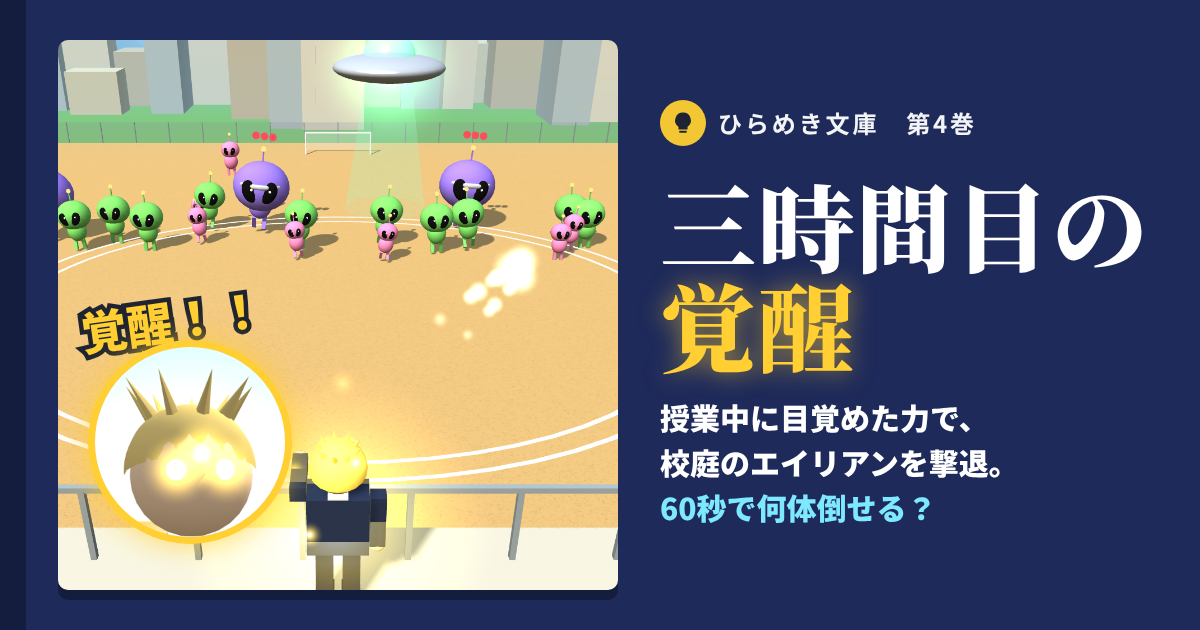
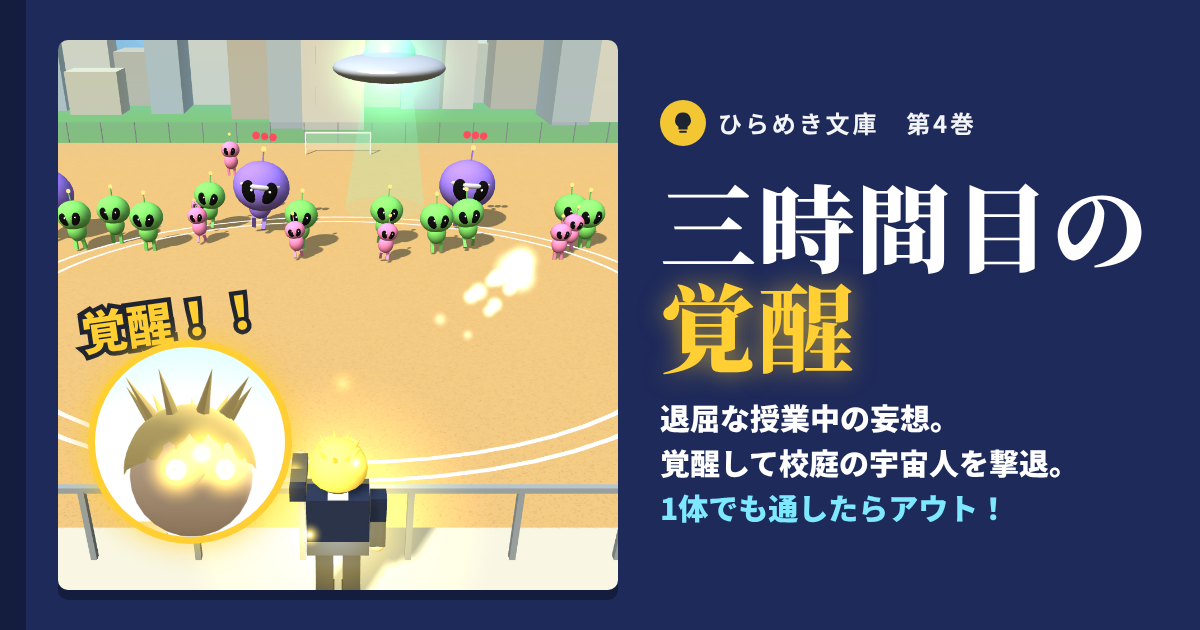
三時間目の覚醒：妄想の設定、防衛ライン、体力1に変更（確認中）
- 退屈な授業中の妄想として始まり、チャイムで現実の教室に戻る
- 画面内に防衛ライン（花壇と赤い線）。宇宙人は必ず画面内を歩く
- 1体でもラインを越えたら妄想の中で校舎崩壊→「廊下に立ってなさい」
- 先生の見た目と結末のカメラを調整、表紙の文言を更新

Claude-Session: https://claude.ai/code/session_01YTwqN5uU5B2yBdEeb5RC93

Changed region(s): [[0.555, 0.6333, 0.8942, 0.754], [0.555, 0.7841, 0.8325, 0.8444]]

diff --git a/kakusei.html b/kakusei.html
@@ -4,11 +4,11 @@
 <meta charset="utf-8">
 <meta name="viewport" content="width=device-width, initial-scale=1, viewport-fit=cover">
 <title>三時間目の覚醒｜ひらめき文庫</title>
-<meta name="description" content="授業中に覚醒した高校生が、校庭に降りてきたエイリアンを魔法で撃退。60秒で何体倒せるか。">
+<meta name="description" content="退屈な授業中、覚醒して校庭の宇宙人を魔法で撃退する妄想。1体でも通したらアウト。">
 <meta property="og:type" content="website">
 <meta property="og:site_name" content="ひらめき文庫">
 <meta property="og:title" content="三時間目の覚醒｜ひらめき文庫">
-<meta property="og:description" content="授業中に覚醒した高校生が、校庭に降りてきたエイリアンを魔法で撃退。60秒で何体倒せるか。">
+<meta property="og:description" content="退屈な授業中、覚醒して校庭の宇宙人を魔法で撃退する妄想。1体でも通したらアウト。">
 <meta property="og:url" content="https://hiramekibunko.github.io/hirameki-bunko/kakusei.html">
 <meta property="og:image" content="https://hiramekibunko.github.io/hirameki-bunko/kakusei.png">
 <meta name="twitter:card" content="summary_large_image">
@@ -42,6 +42,11 @@ body{background:var(--bg);color:var(--fg);font-family:var(--font-body);display:g
 .stage canvas{position:absolute;inset:0;width:100%;height:100%;display:block}
 .flash{position:absolute;inset:0;background:#fff;opacity:0;pointer-events:none}
 .vig{position:absolute;inset:0;pointer-events:none;opacity:0;box-shadow:inset 0 0 80px 30px rgba(255,40,60,.75)}
+.dream{position:absolute;inset:0;pointer-events:none;opacity:0;transition:opacity 1.2s;
+  box-shadow:inset 0 0 70px 26px rgba(255,200,250,.55);background:radial-gradient(ellipse at center,transparent 58%,rgba(210,180,255,.28))}
+.dream.on{opacity:1}
+.rule{justify-self:end;text-align:right;font-size:11px;font-weight:700;line-height:1.35;letter-spacing:.06em;color:#fff}
+.rule b{color:var(--danger)}
 .top{position:absolute;top:10px;left:12px;right:12px;display:grid;grid-template-columns:1fr auto 1fr;align-items:start;gap:8px;pointer-events:none;
   text-shadow:0 2px 0 rgba(0,0,0,.55);font-variant-numeric:tabular-nums}
 .top .t{font-family:var(--font-display);font-size:22px;line-height:1}
@@ -100,10 +105,12 @@ body{background:var(--bg);color:var(--fg);font-family:var(--font-body);display:g
   <div class="stage" id="stage" tabindex="0" role="application" aria-label="三時間目の覚醒。タップした場所に魔法を撃つ">
     <div class="flash" id="flash"></div>
     <div class="vig" id="vig"></div>
+    <div class="dream" id="dream"></div>
     <div class="top" id="top" hidden>
       <div class="t"><span id="time">60</span><small>残り秒</small></div>
       <div class="k"><span id="kills">0</span><small>撃退</small></div>
-      <div class="hp"><small>校舎の無事度 <b id="hpn">100</b>%</small><div class="bar2"><i id="hpbar"></i></div></div>
+      <div class="hp" hidden><small>校舎の無事度 <b id="hpn">100</b>%</small><div class="bar2"><i id="hpbar"></i></div></div>
+      <div class="rule">宇宙人を<br><b>1体でも</b>通したら<br>アウト</div>
     </div>
     <div class="combo" id="combo"></div>
     <div class="banner" id="banner"></div>
@@ -113,7 +120,7 @@ body{background:var(--bg);color:var(--fg);font-family:var(--font-body);display:g
     <button class="skip" id="skip" type="button" hidden>スキップ ▶</button>
     <div class="hud" id="hud">
       <div class="msg" id="msg">タップで授業開始</div>
-      <div class="rank" id="rank" aria-live="polite">三時間目、数学。眠い……</div>
+      <div class="rank" id="rank" aria-live="polite">三時間目、数学。退屈……</div>
       <div class="actions" id="actions" hidden>
         <div class="row">
           <a class="btn x" id="share" href="#" target="_blank" rel="noopener">𝕏 でシェア</a>
@@ -130,7 +137,7 @@ body{background:var(--bg);color:var(--fg);font-family:var(--font-body);display:g
 const $=id=>document.getElementById(id);
 const stage=$("stage"),msg=$("msg"),rankEl=$("rank"),topEl=$("top"),timeEl=$("time"),killsEl=$("kills"),hpnEl=$("hpn"),hpbar=$("hpbar"),
   comboEl=$("combo"),bannerEl=$("banner"),distEl=$("dist"),gaugeEl=$("gauge"),gbar=$("gbar"),specialBtn=$("special"),skipBtn=$("skip"),
-  flashEl=$("flash"),vigEl=$("vig"),actions=$("actions"),shareA=$("share"),againBtn=$("again"),muteBtn=$("mute");
+  flashEl=$("flash"),vigEl=$("vig"),dreamEl=$("dream"),actions=$("actions"),shareA=$("share"),againBtn=$("again"),muteBtn=$("mute");
 if(!window.THREE){msg.textContent="3Dを読み込めませんでした";rankEl.textContent="通信状態を確認して再読み込みしてください";return}
 
 /* ---------- 記録 ---------- */
@@ -301,18 +308,22 @@ function makeStudent(sitting){
   const eyesN=new THREE.Group(),eyesS=new THREE.Group(),eyesG=new THREE.Group();head.add(eyesN);head.add(eyesS);head.add(eyesG);
   for(const x of[-0.09,0.09]){ball(0.032,0x1f2430,x,0.02,0.235,eyesN);box(0.08,0.015,0.02,0x1f2430,x,0.0,0.25,eyesS,false);
     const ge=ball(0.04,basic(0xfff1a8),x,0.02,0.23,eyesG);const gl=glowSprite(TEX.gold,0.28);gl.position.set(x,0.02,0.27);eyesG.add(gl)}
+  const mouthS=new THREE.Mesh(new THREE.TorusGeometry(0.07,0.016,6,14,Math.PI),mat(0x7a2e2e));mouthS.rotation.z=Math.PI;mouthS.position.set(0,-0.08,0.235);mouthS.visible=false;head.add(mouthS);
+  const mouthO=new THREE.Mesh(new THREE.TorusGeometry(0.04,0.016,6,14),mat(0x7a2e2e));mouthO.position.set(0,-0.11,0.235);mouthO.visible=false;head.add(mouthO);
   const arms=[];for(const x of[-0.4,0.4]){const a=new THREE.Group();a.position.set(x,0.64,0);upper.add(a);box(0.16,0.62,0.16,NAVY,0,-0.3,0,a);ball(0.085,SKIN,0,-0.63,0,a);arms.push(a)}
   const hand=glowSprite(TEX.magic,0.6);hand.position.set(0,-0.66,0);hand.visible=false;arms[1].add(hand);
   const aura=glowSprite(TEX.gold,3.4);aura.position.set(0,1.1,-0.1);aura.material.opacity=0;g.add(aura);
-  return {g,legs,upper,torso,head,hair,spikes,eyesN,eyesS,eyesG,arms,hand,aura}
+  return {g,legs,upper,torso,head,hair,spikes,eyesN,eyesS,eyesG,arms,hand,aura,mouthS,mouthO}
 }
 function setEyes(st,k){st.eyesN.visible=k==="n";st.eyesS.visible=k==="s";st.eyesG.visible=k==="g"}
 function makeTeacher(parent){
   const g=new THREE.Group();parent.add(g);
   for(const z of[-0.12,0.12])box(0.18,0.8,0.18,0x3b4654,0,0.4,z,g);
   box(0.5,0.85,0.55,0x56677a,0,1.22,0,g);box(0.03,0.32,0.06,0xb2433a,-0.27,1.38,0,g);
-  const h=new THREE.Group();h.position.set(0,1.92,0);g.add(h);ball(0.26,SKIN,0,0,0,h);const hr=ball(0.28,0x5a5a5a,0,0.05,0,h);hr.scale.set(1,0.55,1);
-  for(const z of[-0.09,0.09]){const gl=new THREE.Mesh(new THREE.TorusGeometry(0.065,0.012,8,20),mat(0x1f2430));gl.position.set(-0.25,0.02,z);gl.rotation.y=Math.PI/2;h.add(gl)}
+  const h=new THREE.Group();h.position.set(0,1.92,0);g.add(h);ball(0.26,SKIN,0,0,0,h);const hr=new THREE.Mesh(new THREE.SphereGeometry(0.275,20,12,0,Math.PI*2,0,Math.PI*0.42),mat(0x6a6a6a));hr.position.set(0.04,0.02,0);hr.rotation.z=-0.35;h.add(hr);
+  for(const z of[-0.09,0.09]){const gl=new THREE.Mesh(new THREE.TorusGeometry(0.062,0.007,6,20),mat(0x1f2430));gl.position.set(-0.255,0.03,z);gl.rotation.y=Math.PI/2;h.add(gl);
+    ball(0.022,0x1f2430,-0.245,0.03,z,h)}
+  box(0.02,0.035,0.16,0x4a4a4a,-0.25,-0.09,0,h,false);box(0.2,0.02,0.02,0x1f2430,-0.12,0.05,0.24,h,false);box(0.2,0.02,0.02,0x1f2430,-0.12,0.05,-0.24,h,false);
   return g}
 
 /* ---------- 教室（オープニング） ---------- */
@@ -407,12 +418,20 @@ const rTeacher=makeTeacher(field);rTeacher.position.set(-2.2,12.45,2.2);rTeacher
 // UFO
 const ufo=makeUFO(1.5);ufo.g.position.set(0,11.5,-54);field.add(ufo.g);
 const BCAM={pos:new THREE.Vector3(0,18.5,6.5),look:new THREE.Vector3(0,1.5,-27)};
+const LINE_Z=-18;
+const halfW=z=>6.2+Math.max(0,LINE_Z-z)*0.24;   // その奥行きで画面に収まる横幅の半分
+(function(){
+  const line=new THREE.Mesh(new THREE.PlaneGeometry(70,0.45),basic(0xff4d5e));line.rotation.x=-Math.PI/2;line.position.set(0,0.03,LINE_Z+0.4);field.add(line);
+  for(let x=-30;x<=30;x+=1.6){box(1.5,0.35,1.1,0x8a5a3a,x,0.175,LINE_Z+1.4,field);
+    for(let k=0;k<3;k++){const f=new THREE.Mesh(new THREE.SphereGeometry(0.22,8,6),mat([0xff6b8a,0xffd23f,0xffffff,0xb48cff][(Math.round(x)+k)&3]));f.position.set(x-0.45+k*0.45,0.5,LINE_Z+1.4+(k%2?0.2:-0.2));field.add(f)}}
+  const tag=sprite("防衛ライン",2.6,{size:110,color:"#fff",stroke:"#d4283c"});tag.material.depthTest=true;tag.position.set(-3.6,1.5,LINE_Z+0.4);field.add(tag);
+})();
 
 /* ---------- エイリアン ---------- */
 const ATYPE={
-  green:{c:0x7ddc6a,head:0.55,speed:3.8,hp:1,dmg:5,scale:1.9},
-  pink:{c:0xff8fc8,head:0.42,speed:6.8,hp:1,dmg:4,scale:1.5},
-  purple:{c:0x9b7bff,head:0.75,speed:2.5,hp:3,dmg:12,scale:2.5}};
+  green:{c:0x7ddc6a,head:0.55,speed:3.3,hp:1,dmg:5,scale:1.9},
+  pink:{c:0xff8fc8,head:0.42,speed:5.6,hp:1,dmg:4,scale:1.5},
+  purple:{c:0x9b7bff,head:0.75,speed:2.2,hp:3,dmg:12,scale:2.5}};
 const aliens=[];
 function makeAlien(type,x,z){
   const T=ATYPE[type];const g=new THREE.Group();g.position.set(x,0,z);field.add(g);
@@ -428,7 +447,7 @@ function makeAlien(type,x,z){
   const pips=[];if(T.hp>1){for(let i=0;i<T.hp;i++){const p=ball(0.11,basic(0xff4d5e),-0.25+i*0.25,T.head+0.75,0,head);pips.push(p)}}
   g.scale.setScalar(T.scale);
   const a={g,body,head,type,hp:T.hp,speed:T.speed*(0.85+Math.random()*0.3),dmg:T.dmg,pips,phase:Math.random()*6,sway:(Math.random()-.5)*1.4,dead:false,dying:0,spin:0,vel:null,
-    targetX:x*0.6+(Math.random()-.5)*20,state:"walk",drop:0};
+    targetX:(Math.random()-.5)*2*(halfW(LINE_Z)-1.4),startX:x,startZ:z,state:"walk",drop:0};
   aliens.push(a);return a}
 function removeAlien(a){field.remove(a.g);const i=aliens.indexOf(a);if(i>=0)aliens.splice(i,1)}
 
@@ -454,23 +473,25 @@ function goIdle(){
   setEyes(hero,"s");hero.upper.rotation.x=0.95;hero.head.rotation.x=0.35;hero.arms.forEach((a,i)=>{a.rotation.x=-0.75;a.rotation.z=i?0.55:-0.55});
   hero.aura.material.opacity=0;hero.spikes.forEach(s=>s.scale.set(1,1,1));
   for(const s of hero.spikes){s.material.color.set(HAIR)}hero.hair.children[0].material.color.set(HAIR);
-  hero.g.position.y=0;cUfo.g.position.set(-19,10,8);cUfo.halo.material.opacity=0.6;cUfo.beam.material.opacity=0;zzz.visible=true;
+  hero.g.position.y=0;hero.head.rotation.z=0;hero.mouthS.visible=false;hero.mouthO.visible=false;teacher.position.set(1.0,0,-3.6);teacher.rotation.y=-0.3;dreamEl.classList.remove("on");
+  cUfo.g.position.set(-19,10,8);cUfo.halo.material.opacity=0.6;cUfo.beam.material.opacity=0;zzz.visible=true;
   camK.pos.set(-0.7,2.05,-1.9);camK.look.set(-3.7,1.1,1.0);camera.position.copy(camK.pos);camLook.copy(camK.look);
   topEl.hidden=true;gaugeEl.hidden=true;specialBtn.hidden=true;skipBtn.hidden=true;distEl.innerHTML="";distEl.classList.remove("slam");
   kills=0;hp=100;combo=0;maxCombo=0;gauge=0;spawnT=0;gameT=0;waves={20:false,40:false};lastWarned=false;
   for(const c of cracks)c.visible=false;for(const w of windows)w.material=winMat;school.rotation.set(0,0,0);school.position.set(0,0,0);
   fighter.g.position.set(0,12.45,0.9);fighter.g.rotation.set(0,Math.PI,0);rTeacher.visible=false;ufo.g.position.set(0,11.5,-54);ufo.g.visible=true;ufo.beam.material.opacity=0;
-  msg.textContent="タップで授業開始";rankEl.textContent="三時間目、数学。眠い……";updHud();
+  msg.textContent="タップで授業開始";rankEl.textContent="三時間目、数学。退屈……";updHud();
 }
 const tb=(text,pos,color,scale,life)=>popText(classroom,text,pos,color,scale,life);
 function startIntro(){
   if(state!=="idle")return;state="intro";skipBtn.hidden=false;introStart=performance.now();
   msg.textContent="先生「ここ、テストに出るぞ〜」";rankEl.textContent="";
-  later(()=>{SE.rumble();shake=0.8;cUfo.halo.material.opacity=0.9;flash(0.35,0.8);msg.textContent="ゴゴゴゴゴ……";rankEl.textContent="校庭に何かが降りてくる";SE.ufo()},1600);
-  later(()=>{setEyes(hero,"n");zzz.visible=false;SE.gasp();tb("……！",new THREE.Vector3(-3.2,2.1,0.9),"#fff",1.0,1.2);heroUp=true;msg.textContent="……！";rankEl.textContent=""},3100);
-  later(()=>{setEyes(hero,"g");SE.awaken();camK.pos.set(-3.05,1.62,-0.15);camK.look.set(-3.2,1.55,1.22);powerUp=true;msg.textContent="";},4000);
-  later(()=>{flash(1,0.6);banner("覚　醒","三時間目、目覚める");shake=1.0},5300);
-  later(enterBattle,6700);
+  later(()=>{msg.textContent="（……つまんない。今、校庭にUFOが来たら……）";rankEl.textContent="妄想スタート";dreamEl.classList.add("on");setEyes(hero,"n");zzz.visible=false;heroUp=true},1500);
+  later(()=>{SE.rumble();shake=0.8;cUfo.halo.material.opacity=0.9;flash(0.35,0.8);msg.textContent="ゴゴゴゴゴ……";rankEl.textContent="校庭に何かが降りてくる";SE.ufo()},3000);
+  later(()=>{SE.gasp();tb("……！",new THREE.Vector3(-3.2,2.1,0.9),"#fff",1.0,1.2);msg.textContent="（……ついに、オレの力が目覚める時が来た）";rankEl.textContent=""},4300);
+  later(()=>{setEyes(hero,"g");SE.awaken();camK.pos.set(-3.05,1.62,-0.15);camK.look.set(-3.2,1.55,1.22);powerUp=true;msg.textContent="";},5300);
+  later(()=>{flash(1,0.6);banner("覚　醒","三時間目、目覚める");shake=1.0},6600);
+  later(enterBattle,8000);
 }
 let heroUp=false,powerUp=false,introStart=0;const gameIntroT=()=>(performance.now()-introStart)/1000;
 function enterBattle(){
@@ -478,8 +499,9 @@ function enterBattle(){
   bgmMode="battle";gameT=0;msg.textContent="";rankEl.textContent="";
   camera.position.copy(BCAM.pos).add(new THREE.Vector3(0,3,4));camLook.copy(BCAM.look);
   topEl.hidden=false;gaugeEl.hidden=false;updHud();timeEl.textContent="60";
-  banner("校舎を守れ！","タップした所に魔法を撃て");
-  later(()=>{state="battle";spawnT=0.3},1300);
+  banner("校舎を守れ！","1体も防衛ラインを越えさせるな");dreamEl.classList.add("on");
+  rankEl.textContent="タップした所に魔法が飛ぶ（連打OK）";later(()=>{if(state==="battle")rankEl.textContent=""},5500);
+  later(()=>{state="battle";spawnT=0.6},1500);
 }
 skipBtn.addEventListener("pointerdown",e=>{e.stopPropagation()});
 skipBtn.addEventListener("click",e=>{e.stopPropagation();if(state==="intro"){bannerEl.classList.remove("on");enterBattle()}});
@@ -535,37 +557,53 @@ specialBtn.addEventListener("pointerdown",e=>{e.stopPropagation();e.preventDefau
 function timeUp(){
   state="ending";bgmMode="none";SE.chime();banner("キーンコーン","終業のチャイム");specialBtn.hidden=true;
   ending={t:0,kind:"time"};
-  later(()=>{SE.beam();ufo.beam.material.opacity=0.35;for(const a of aliens)if(!a.dead){a.state="lift";a.drop=0}},1600);
-  later(()=>{ufo.beam.material.opacity=0;ending.fly=true},4200);
-  later(()=>finish("time"),5600);
+  later(()=>{SE.beam();ufo.beam.material.opacity=0.35;for(const a of aliens)if(!a.dead){a.state="lift";a.drop=0}},1500);
+  later(()=>{ufo.beam.material.opacity=0;ending.fly=true},3800);
+  later(()=>toReality("time"),5000);
 }
-function gameOver(){
-  state="ending";bgmMode="none";SE.collapse();shake=1.6;banner("校舎崩壊","");specialBtn.hidden=true;
-  for(const w of windows)if(Math.random()<0.8)w.material=winBroken;for(const c of cracks)c.visible=true;
-  ending={t:0,kind:"over"};
-  later(()=>finish("over"),3200);
+function breach(a){
+  if(state!=="battle")return;
+  state="ending";bgmMode="none";specialBtn.hidden=true;hurtFlash();shake=0.8;SE.wall();
+  banner("突破された！","宇宙人が防衛ラインを越えた");
+  a.state="rush";ending={t:0,kind:"over"};
+  for(const o of aliens)if(o!==a&&!o.dead&&o.state==="walk")o.state="cheer";
+  later(()=>{SE.collapse();shake=1.6;for(const w of windows)if(Math.random()<0.8)w.material=winBroken;for(const c of cracks)c.visible=true;ending.collapse=true;
+    banner("校舎崩壊","");camera.position.set(8.5,15.2,-12.5);camLook.set(-1.2,10.2,1.2);ending.view=true},1400);
+  later(()=>toReality("over"),3600);
+}
+function toReality(kind){
+  // 妄想が終わって、現実の教室に戻る
+  flash(1,0.9);dreamEl.classList.remove("on");active=classroom;clearFx();
+  topEl.hidden=true;gaugeEl.hidden=true;specialBtn.hidden=true;
+  hero.aura.material.opacity=0;hero.g.position.y=0;hero.spikes.forEach(sp=>{sp.scale.set(1,1,1);sp.material.color.set(HAIR)});hero.hair.children[0].material.color.set(HAIR);
+  hero.upper.rotation.set(0,0,0);hero.head.rotation.set(0,0,0);
+  teacher.position.set(-2.0,0,1.5);teacher.rotation.y=-0.7;
+  if(kind==="over"){setEyes(hero,"n");hero.mouthO.visible=true;hero.mouthS.visible=false;hero.arms.forEach((a,i)=>{a.rotation.x=-2.9;a.rotation.z=i?0.4:-0.4});hero.g.position.y=0.35;
+    tb("うわぁっ！",new THREE.Vector3(-3.2,2.5,1.0),"#fff",1.3,1.6)}
+  else{setEyes(hero,"s");hero.mouthS.visible=true;hero.mouthO.visible=false;hero.arms.forEach(a=>{a.rotation.x=-0.5;a.rotation.z=0});hero.head.rotation.z=0.18;
+    tb("むふふ……",new THREE.Vector3(-3.2,2.3,1.0),"#ffe9a8",1.1,1.6)}
+  camK.pos.set(-1.4,2.2,-2.6);camK.look.set(-2.6,1.3,1.2);camera.position.set(-1.2,2.6,-3.4);camLook.copy(camK.look);
+  heroUp=false;powerUp=false;cUfo.g.position.set(-19,40,8);zzz.visible=false;
+  later(()=>finish(kind),1100);
 }
 function finish(kind){
   state="end";topEl.hidden=true;gaugeEl.hidden=true;
-  if(kind==="time"){flash(0.9,0.7);camera.position.set(8.5,15.2,-12.5);camLook.set(-1.2,10.2,1.2)}
-  rTeacher.visible=true;
-  const hpi=Math.max(0,Math.round(hp));
   let line;
-  if(kind==="over")line="……廊下に立ってなさい";
-  else if(hpi>=90&&kills>=60)line="……今日の居眠りは見逃してやろう";
-  else if(hpi>=60)line="校舎は守ったようだな。で、さっきの問題の答えは？";
-  else if(hpi>=30)line="窓ガラスの弁償、親御さんに連絡しておくからな";
-  else line="放課後、職員室に来なさい";
-  const rank=kind==="over"?"校舎崩壊":kills<25?"寝ぼけた勇者":kills<50?"放課後ヒーロー":kills<85?"学園の守護者":"伝説の三時間目";
-  let upd=false;if(!bestK||kills>bestK){bestK=kills;upd=true;try{localStorage.setItem("hb-kakusei-best",String(kills))}catch(e){}}
-  distEl.innerHTML=`${kills}<span style="font-size:.5em"> 体</span><small>撃退したエイリアン</small><em>校舎の無事度 ${hpi}%　最大 ${maxCombo} コンボ</em>`;
+  if(kind==="over")line="……授業中に叫ぶな。廊下に立ってなさい";
+  else if(kills>=80)line="……ずいぶん楽しそうだったな。で、さっきの答えは？";
+  else if(kills>=50)line="ニヤニヤしてないで、黒板を見なさい";
+  else if(kills>=25)line="チャイム鳴ったぞ。起きてるか？";
+  else line="……寝てたのか？";
+  const rank=kind==="over"?"妄想の中で校舎崩壊":kills<25?"寝ぼけた勇者":kills<50?"放課後ヒーロー":kills<80?"学園の守護者":"伝説の三時間目";
+  let upd=false;if(kills>0&&(!bestK||kills>bestK)){bestK=kills;upd=true;try{localStorage.setItem("hb-kakusei-best",String(kills))}catch(e){}}
+  distEl.innerHTML=`${kills}<span style="font-size:.5em"> 体</span><small>妄想の中で撃退した宇宙人</small><em>${kind==="over"?"防衛ライン突破":"最後まで守り抜いた"}　最大 ${maxCombo} コンボ</em>`;
   distEl.classList.remove("slam");void distEl.offsetWidth;distEl.classList.add("slam");
   msg.textContent=`先生「${line}」`;
   rankEl.textContent=`【${rank}】`+(upd?"　自己ベスト更新！":"")+(bestK&&!upd?`　ベスト ${bestK} 体`:"");
   if(kind==="over"){bgmMode="lose";SE.sad()}else{bgmMode="win";SE.fanfare()}
   showActions(kind==="over"
-    ?`授業中に覚醒して校庭のエイリアンと戦ったけど、校舎が崩壊した……\n撃退 ${kills} 体【${rank}】\n先生「${line}」`
-    :`授業中に覚醒して、校庭のエイリアンを ${kills} 体撃退！\n校舎の無事度 ${hpi}%【${rank}】\n先生「${line}」`);
+    ?`つまらない授業中、覚醒して宇宙人と戦う妄想をしたら、校舎を壊された……\n撃退 ${kills} 体【${rank}】\n先生「${line}」`
+    :`つまらない授業中、覚醒して校庭の宇宙人を ${kills} 体撃退する妄想をした【${rank}】\n先生「${line}」`);
 }
 
 /* ---------- 入力 ---------- */
@@ -589,7 +627,7 @@ function tick(now){
   // --- オープニング
   if(active===classroom){
     cUfo.g.rotation.y+=rdt*1.5;cUfo.lights.forEach((l,i)=>l.visible=Math.floor(now/180+i)%2===0);
-    if(state==="intro"&&gameIntroT()>1.5){cUfo.g.position.lerp(tmp.set(-13,3.6,6.5),ease(1.8))}
+    if(state==="intro"&&gameIntroT()>3.0){cUfo.g.position.lerp(tmp.set(-13,3.6,6.5),ease(1.8))}
     zzz.position.y=1.9+Math.sin(now/400)*0.08;
     if(heroUp){hero.upper.rotation.x+=(0-hero.upper.rotation.x)*ease(6);hero.head.rotation.x+=(-0.05-hero.head.rotation.x)*ease(6);
       hero.arms.forEach((a,i)=>{a.rotation.x+=((powerUp?-0.2:-0.6)-a.rotation.x)*ease(6);a.rotation.z+=((powerUp?(i?0.5:-0.5):0)-a.rotation.z)*ease(4)})}
@@ -602,7 +640,7 @@ function tick(now){
   // --- バトル
   if(active===field){
     ufo.g.rotation.y+=rdt*1.2;ufo.lights.forEach((l,i)=>l.visible=Math.floor(now/150+i)%2===0);
-    if(state==="battle"||state==="countdown")ufo.g.position.x=Math.sin(now/1700)*16;
+    if(state==="battle"||state==="countdown")ufo.g.position.x=Math.sin(now/1700)*9;
     fighter.aura.scale.setScalar(3.4+Math.sin(now/90)*0.25);
     if(Math.random()<0.4){const p=fighter.g.position.clone().add(new THREE.Vector3((Math.random()-.5)*1.1,0.2+Math.random()*1.6,(Math.random()-.5)*0.8));const s=glowSprite(TEX.gold,0.28);s.position.copy(p);addFx(s,field,{life:0.7,vel:new THREE.Vector3(0,2.6,0)})}
     if(castT>0){castT-=rdt;if(castT<=0){fighter.hand.visible=false}}
@@ -612,11 +650,13 @@ function tick(now){
       if(left<=10&&!lastWarned){lastWarned=true;bgmMode="last";banner("ラスト10秒！","");SE.wave()}
       // 敵の出現
       spawnT-=dt;
-      if(spawnT<=0){const k=Math.min(1,gameT/60);spawnT=1.25-k*0.9;
-        const r=Math.random();const type=gameT>25&&r<0.16?"purple":gameT>10&&r<0.42?"pink":"green";
-        const a=makeAlien(type,ufo.g.position.x+(Math.random()-.5)*6,-50);a.state="drop";a.drop=1;a.g.position.y=9;ufo.beam.material.opacity=0.3}
+      if(spawnT<=0){const k=Math.min(1,gameT/60);spawnT=1.5-k*0.95;
+        const r=Math.random();const type=gameT>28&&r<0.12?"purple":gameT>12&&r<0.4?"pink":"green";
+        const x=Math.max(-halfW(-50)+2,Math.min(halfW(-50)-2,ufo.g.position.x+(Math.random()-.5)*6));
+        const a=makeAlien(type,x,-50);a.state="drop";a.drop=1;a.g.position.y=9;ufo.beam.material.opacity=0.3}
       for(const w of[20,40])if(!waves[w]&&gameT>=w){waves[w]=true;banner(w===20?"第二波！":"大群が来た！","");SE.wave();
-        for(let i=0;i<(w===20?8:12);i++){const x=-24+i*(48/((w===20?8:12)-1));const a=makeAlien(i%4===0&&w===40?"purple":i%3===0?"pink":"green",x,-47-Math.random()*5);a.state="drop";a.drop=1;a.g.position.y=7+Math.random()*4}}
+        const n=w===20?6:8,hw=halfW(-49)-2.5;
+        for(let i=0;i<n;i++){const x=-hw+i*(2*hw/(n-1));const a=makeAlien(i===3&&w===40?"purple":i%3===1?"pink":"green",x,-48-Math.random()*4);a.state="drop";a.drop=1;a.g.position.y=7+Math.random()*4}}
       ufo.beam.material.opacity*=Math.pow(0.1,dt);
       if(comboT>0)comboT-=dt;
       if(gameT>=60)timeUp();
@@ -626,21 +666,21 @@ function tick(now){
       if(a.dead){a.dying-=dt;a.vel.y-=25*dt;a.g.position.addScaledVector(a.vel,dt);a.g.rotation.x+=a.spin*dt;a.g.rotation.z+=a.spin*0.6*dt;a.g.scale.multiplyScalar(Math.pow(0.25,dt));
         if(a.dying<=0)removeAlien(a);continue}
       if(a.state==="drop"){a.g.position.y-=dt*14;if(a.g.position.y<=0){a.g.position.y=0;a.state="walk"}continue}
+      if(a.state==="rush"){a.phase+=dt*20;a.g.position.z+=dt*14;a.body.position.y=Math.abs(Math.sin(a.phase))*0.3;
+        if(a.g.position.z>-1){const p=a.g.position.clone();p.y=2;burst(field,p,16,TEX.dust,2.6,7,1);popText(field,"ドカーン",p.clone().add(new THREE.Vector3(0,2,0)),"#ff4d5e",3.2,1);removeAlien(a)}continue}
+      if(a.state==="cheer"){a.phase+=dt*11;a.body.position.y=Math.abs(Math.sin(a.phase))*0.55;a.body.rotation.z=Math.sin(a.phase*0.5)*0.2;continue}
       if(a.state==="lift"){a.drop+=dt;a.g.position.y+=dt*(4+a.drop*8);a.g.position.x+=(ufo.g.position.x-a.g.position.x)*dt*0.8;a.g.position.z+=(ufo.g.position.z-a.g.position.z)*dt*0.5;a.g.rotation.y+=dt*6;
         if(a.g.position.y>15)removeAlien(a);continue}
       if(a.state!=="walk"||state!=="battle")continue;
       a.phase+=dt*a.speed*2.2;
-      a.g.position.z+=a.speed*dt;a.g.position.x+=(a.targetX-a.g.position.x)*dt*0.12+Math.sin(a.phase*0.3)*a.sway*dt;
+      a.g.position.z+=a.speed*dt;
+      const prog=Math.min(1,Math.max(0,(a.g.position.z-a.startZ)/(LINE_Z-a.startZ)));
+      const wantX=a.startX+(a.targetX-a.startX)*prog+Math.sin(a.phase*0.25)*a.sway*0.8;
+      a.g.position.x+=(wantX-a.g.position.x)*Math.min(1,dt*3);
+      const hw=halfW(a.g.position.z)-0.8;a.g.position.x=Math.max(-hw,Math.min(hw,a.g.position.x));
       a.body.position.y=Math.abs(Math.sin(a.phase))*0.18;a.body.rotation.z=Math.sin(a.phase)*0.12;
       a.body.children.forEach(c=>{if(c.userData.leg!==undefined)c.rotation.x=Math.sin(a.phase+(c.userData.leg>0?0:Math.PI))*0.6});
-      if(a.g.position.z>=-1.2){ // 校舎に到達
-        hp-=a.dmg;SE.wall();shake=Math.max(shake,0.5);hurtFlash();
-        const p=a.g.position.clone();p.y=1.5;burst(field,p,14,TEX.dust,2.2,6,0.9);popText(field,"ドカッ",p.clone().add(new THREE.Vector3(0,1.5,0)),"#ff4d5e",3,0.8);
-        const hidden=cracks.filter(c=>!c.visible);const n=Math.ceil(a.dmg/5);for(let i=0;i<n&&hidden.length;i++){const c=hidden.splice(Math.floor(Math.random()*hidden.length),1)[0];c.position.x=Math.max(-33,Math.min(33,p.x+(Math.random()-.5)*8));c.visible=true}
-        const ws=windows.filter(w=>w.material===winMat&&Math.abs(w.position.x-p.x)<6);if(ws.length)ws[Math.floor(Math.random()*ws.length)].material=winBroken;
-        removeAlien(a);updHud();
-        if(hp<=0){hp=0;updHud();gameOver();break}
-      }
+      if(a.g.position.z>=LINE_Z){breach(a);break}
     }
     // 魔法弾
     for(let i=bolts.length-1;i>=0;i--){const b=bolts[i];
@@ -664,13 +704,14 @@ function tick(now){
     // 終わりの演出
     if(ending){ending.t+=rdt;
       if(ending.fly){ufo.g.position.y+=rdt*(6+ending.t*6);ufo.g.position.z-=rdt*20}
-      if(ending.kind==="over"){school.rotation.z=Math.min(0.06,ending.t*0.03);school.position.y=-Math.min(1.5,ending.t*0.6);if(Math.random()<0.4){const p=new THREE.Vector3((Math.random()-.5)*60,Math.random()*10,0);burst(field,p,3,TEX.dust,3,3,1.2)}}}
+      if(ending.kind==="over"&&ending.collapse){school.rotation.z=Math.min(0.06,ending.t*0.03);school.position.y=-Math.min(1.5,ending.t*0.6);if(Math.random()<0.4){const p=new THREE.Vector3((Math.random()-.5)*60,Math.random()*10,0);burst(field,p,3,TEX.dust,3,3,1.2)}}}
     // カメラ
     let gp,gl;
-    if(state==="end"||(ending&&ending.kind==="over")){gp=tmp.set(8.5,15.2,-12.5);gl=tmp2.set(-1.2,10.2,1.2)}
+    if(ending&&ending.kind==="over"&&ending.view){gp=tmp.set(8.5,15.2,-12.5);gl=tmp2.set(-1.2,10.2,1.2)}
+    else if(ending&&ending.kind==="over"){gp=tmp.copy(BCAM.pos);gl=tmp2.copy(BCAM.look)}
     else if(ending){gp=tmp.set(0,19.5,9.5);gl=tmp2.set(ufo.g.position.x*0.5,Math.min(ufo.g.position.y,30)*0.55,-40)}
     else{gp=tmp.copy(BCAM.pos);gl=tmp2.copy(BCAM.look)}
-    camera.position.lerp(gp,ease(state==="end"||ending?1.4:3));camLook.lerp(gl,ease(ending&&state!=="end"?1.6:3));
+    camera.position.lerp(gp,ease(ending&&ending.view?1.4:ending?1.4:3));camLook.lerp(gl,ease(ending&&state!=="end"?1.6:3));
   }
   if(shake>0){shake-=rdt;camera.position.x+=(Math.random()-.5)*shake*0.5;camera.position.y+=(Math.random()-.5)*shake*0.5}
   camera.lookAt(camLook);
